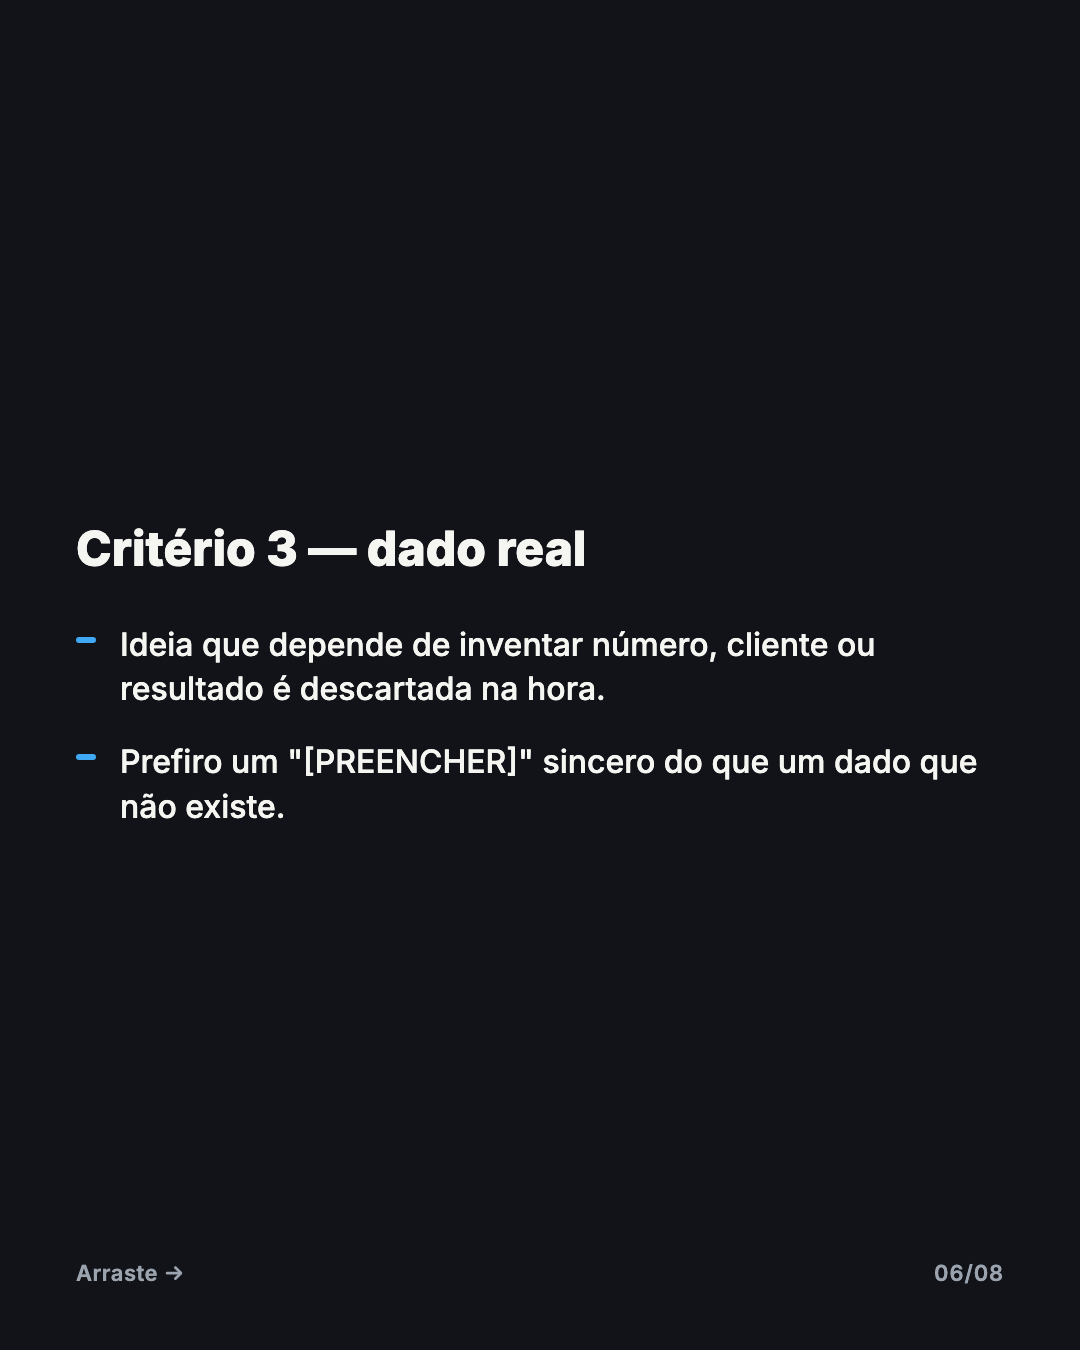
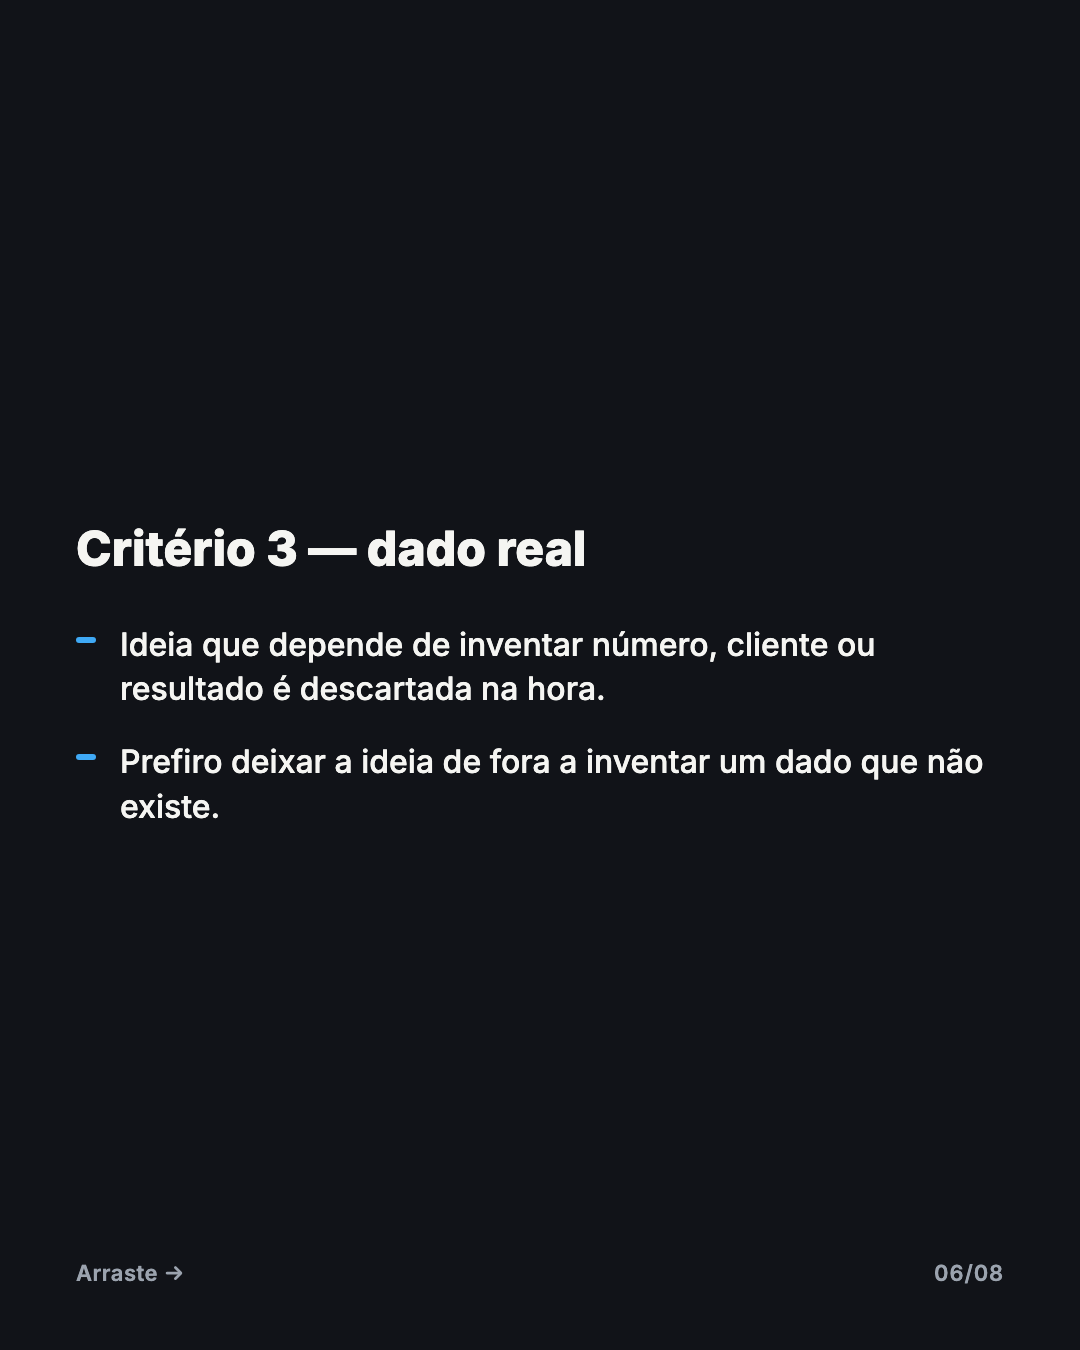
Sem placeholders: regra, slide 46 e resumo 43 corrigidos

Changed region(s): [[0.1222, 0.5289, 0.9167, 0.6222]]

diff --git a/2026-semana-46/03-quinta-pilar1-carrossel.md b/2026-semana-46/03-quinta-pilar1-carrossel.md
@@ -21,7 +21,7 @@ Nesse carrossel, o sistema que uso pra gerar dezenas de ideias e filtrar por cri
 3. **Conteúdo** — "Como eu peço" — Peço quantidade alta de propósito — 30, 40 ideias — não qualidade na primeira resposta. / Quantidade alta me dá material pra comparar, não pra aceitar a primeira que aparece.
 4. **Conteúdo** — "Critério 1 — pilar" — Toda ideia que não encaixa num dos 4 pilares do meu conteúdo sai da lista primeiro. / Tendência de mercado interessante, mas sem pilar, não entra.
 5. **Conteúdo** — "Critério 2 — gancho real" — Dou nota pra cada ideia pensando numa pergunta só: ela funciona nas 2 primeiras linhas, antes do "ver mais"? / Ideia boa com gancho fraco perde pra ideia simples com gancho forte.
-6. **Conteúdo** — "Critério 3 — dado real" — Ideia que depende de inventar número, cliente ou resultado é descartada na hora. / Prefiro um "[PREENCHER]" sincero do que um dado que não existe.
+6. **Conteúdo** — "Critério 3 — dado real" — Ideia que depende de inventar número, cliente ou resultado é descartada na hora. / Prefiro deixar a ideia de fora a inventar um dado que não existe.
 7. **Conteúdo** — "O que sobra" — De 40 ideias, sobram normalmente 3 a 5 com nota alta nos três critérios. / É esse grupo pequeno que eu realmente escrevo.
 8. **CTA** — "Gerar ideia é\na parte fácil.\nFiltrar com critério\né o trabalho." / "Comenta aqui embaixo" / "Qual critério você usa pra filtrar uma ideia antes de escrever?"
 

diff --git a/posicionamento.md b/posicionamento.md
@@ -64,7 +64,7 @@ Paleta provisória — ajustável a qualquer momento, é só pedir:
 - **Sem link externo no corpo.** Se for necessário, indicar "link no primeiro comentário".
 - **No máximo 3 hashtags**, sempre no final.
 - **Fechamento:** pergunta ou convite a comentar — nunca "comenta EU QUERO" ou variações forçadas.
-- **Dados reais só.** Proibido inventar números, resultados, clientes ou depoimentos. Se o post pede um dado real que falta, deixar `[PREENCHER: o quê]` no lugar exato.
+- **Dados reais só.** Proibido inventar números, resultados, clientes ou depoimentos. **Sem placeholders:** nunca deixar `[PREENCHER]`, `[CONFIRMAR]` ou lacuna parecida em post, slide ou kit. Se falta um dado real, escrever o post sem aquele trecho (ou trocar o ângulo) e listar no `resumo-lote.md`, em "Faltou", o que o Rapha poderia fornecer pra enriquecer. A notificação nunca fala em "preencher".
 
 ### Filtro anti-cara-de-IA (mesmo filtro do carrossel-designer)
 

diff --git a/2026-semana-43/resumo-lote.md b/2026-semana-43/resumo-lote.md
@@ -6,9 +6,9 @@
 | Quarta 21/10, 8h–9h | Bastidores MyDNA | Carrossel PDF (7 slides) | Diferença entre escrever pra B2C e pra B2B |
 | Quinta 22/10, 8h–9h | Carreira e aprendizado | Texto + imagem | Onde eu quero chegar e por que documento o processo |
 
-## Pendências [PREENCHER]
+## Faltou
 
-- Post 2 (carrossel), slide 5: `[PREENCHER: exemplo real de um ajuste feito num conteúdo B2B]` — precisa de um exemplo real de algo que o Rapha ajustou de fato num conteúdo B2B antes de agendar. Nenhum número ou dado da MyDNA foi inventado para preencher isso.
+Nada. O slide 5 do carrossel (post 2) foi reescrito sem exemplo pessoal.
 
 ## Fontes da pesquisa de gancho
 
@@ -29,7 +29,6 @@
 
 ```
 ☐ Revisar os 3 textos
-☐ Preencher o [PREENCHER] do slide 5 do carrossel (post 2) com exemplo real
 ☐ Conferir visuais (2 PNGs + 1 PDF)
 ☐ Agendar terça 20/10, 8h–9h
 ☐ Agendar quarta 21/10, 8h–9h
